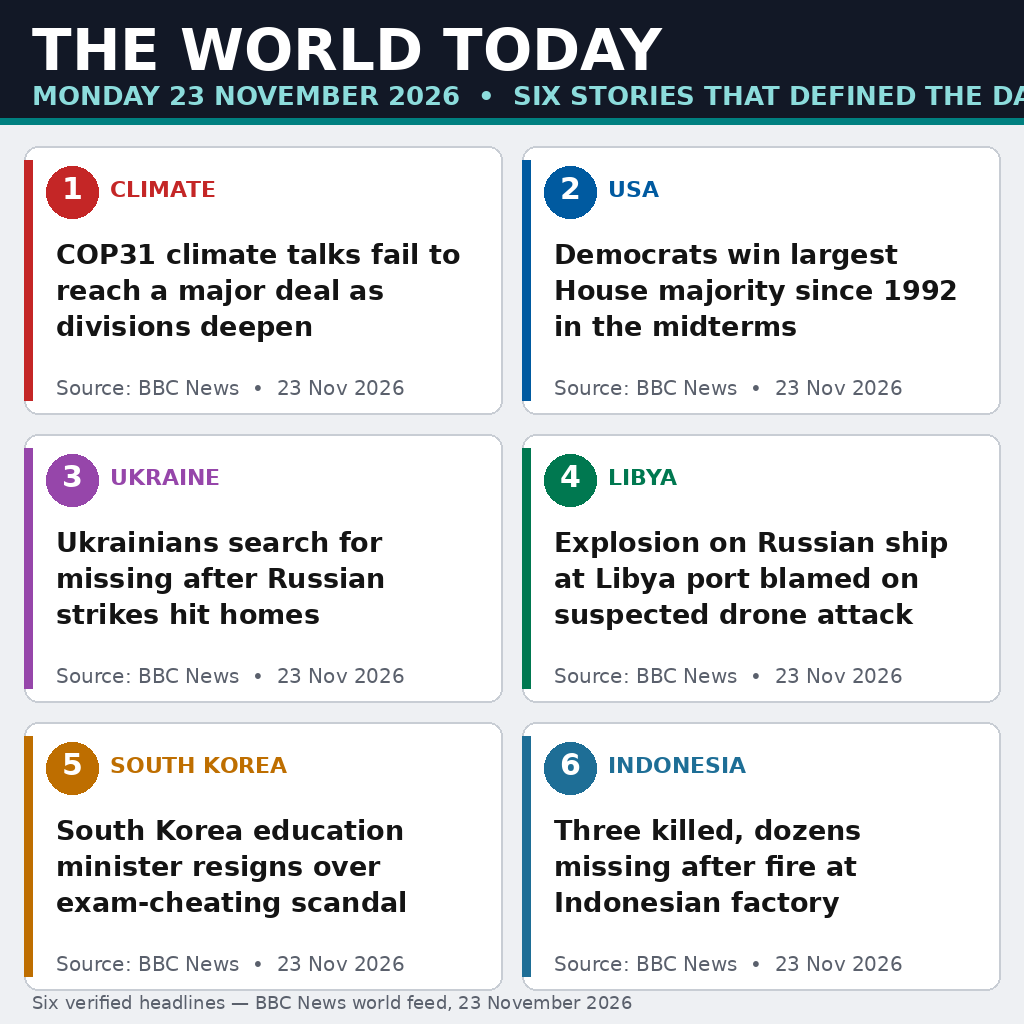
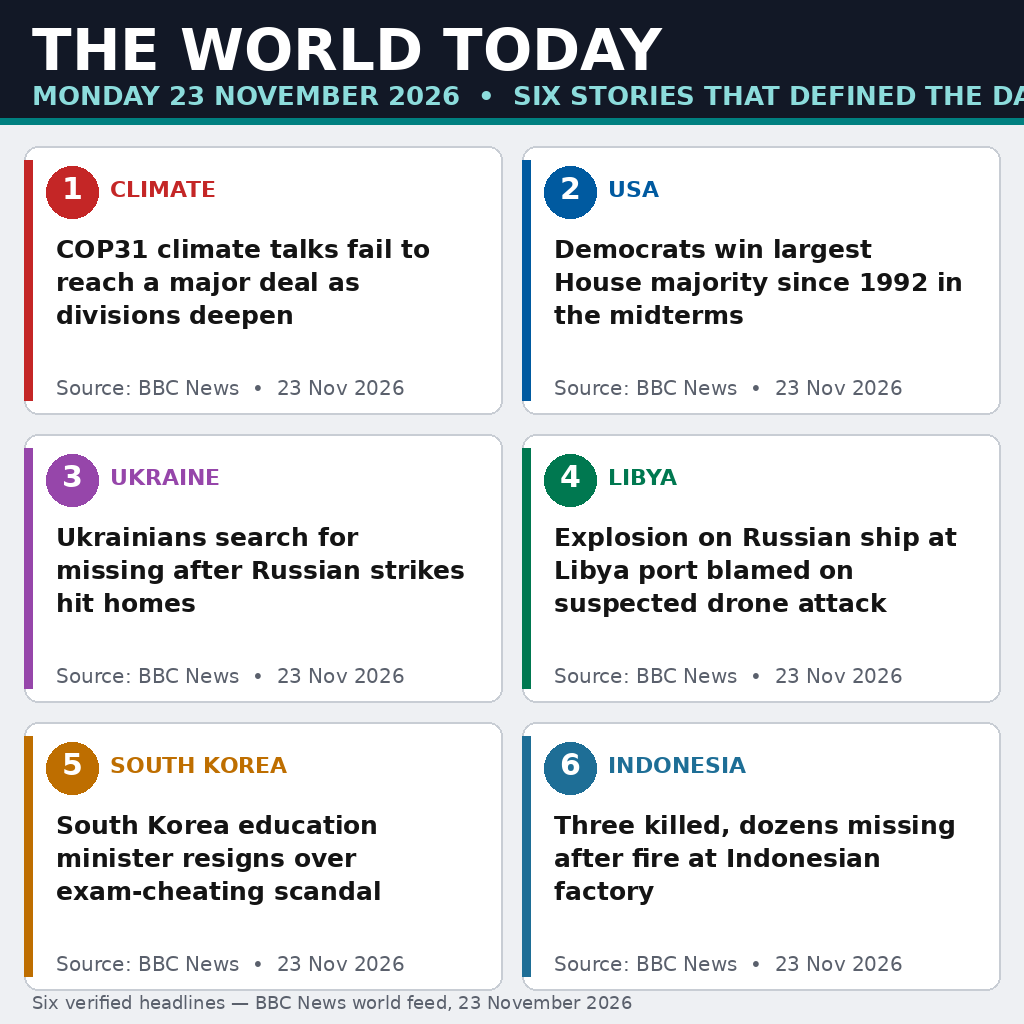
Fix headline layout: smaller headline font (27->25px) and tighter line height so 4-line headlines no longer overlap the source line

diff --git a/draw.py b/draw.py
@@ -72,7 +72,7 @@ def main():
     top0 = 146
     f_num = font(BOLD, 30)
     f_tag = font(BOLD, 22)
-    f_head = font(BOLD, 27)
+    f_head = font(BOLD, 25)
     f_src = font(REG, 20)
     for i, (num, tag, head, src) in enumerate(STORIES):
         col, row = i % 2, i // 2
@@ -89,10 +89,10 @@ def main():
         d.text((cx - tw_num / 2, cy - 21), num, font=f_num, fill=(255, 255, 255))
         d.text((x0 + 86, y0 + 30), tag, font=f_tag, fill=accent)
         lines = wrap(d, head, f_head, tw - 64)
-        y = y0 + 92
+        y = y0 + 88
         for ln in lines[:4]:
             d.text((x0 + 32, y), ln, font=f_head, fill=(20, 20, 20))
-            y += 36
+            y += 33
         d.text((x0 + 32, y1 - 38), "Source: " + src + "  •  23 Nov 2026",
                font=f_src, fill=GREY)
     # footer strip
